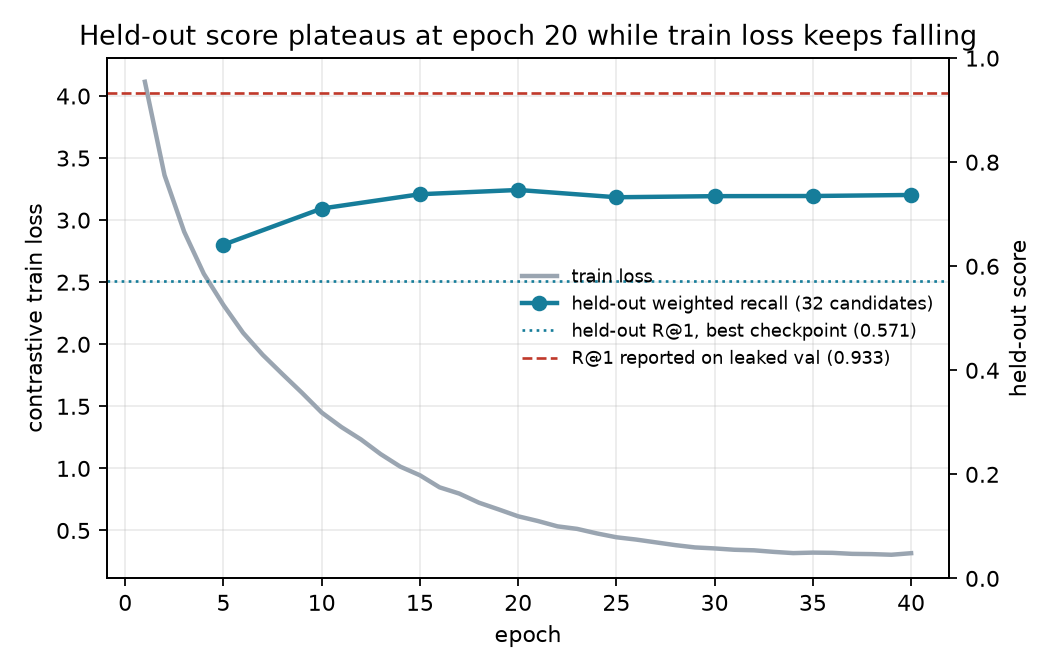
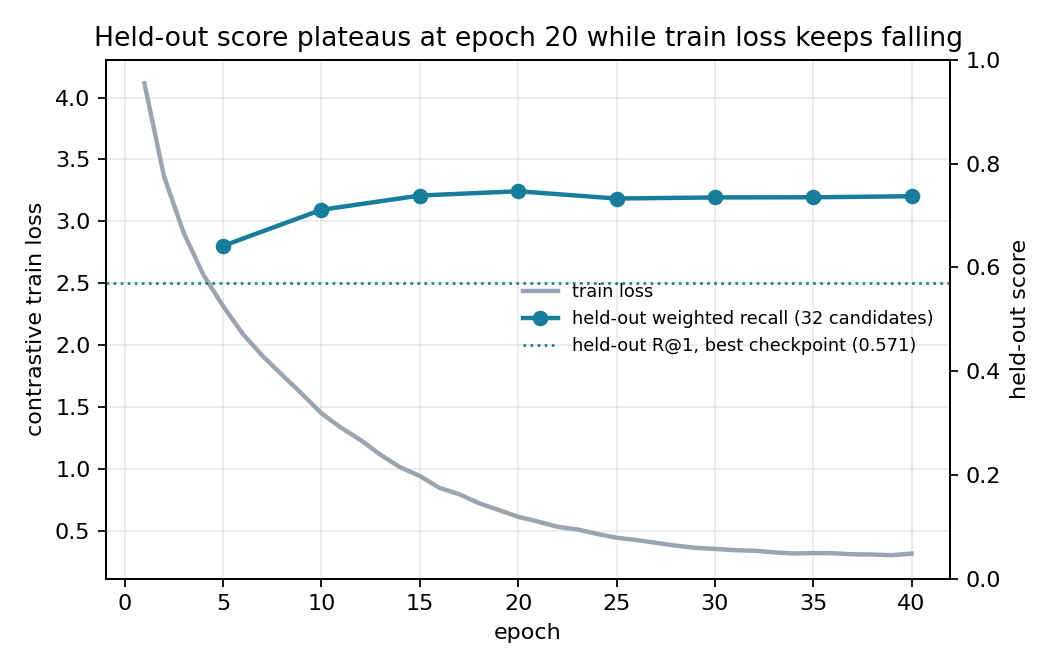
Text-to-motion: present the Kaggle win first, validation check instead of leak

diff --git a/src/content/projects.ts b/src/content/projects.ts
@@ -241,14 +241,13 @@ export const projects: Project[] = [
     featured: true,
     title: { en: 'Text-to-motion retrieval', fr: 'Text-to-motion retrieval' },
     line: {
-      en: 'Find a motion-capture sequence from a sentence. Won the Kaggle challenge, then found that the local validation score was measured on training data.',
-      fr: "Retrouver une séquence de motion capture à partir d'une phrase. Challenge Kaggle gagné, puis découverte que le score de validation local était mesuré sur des données d'entraînement.",
+      en: 'Find a motion-capture sequence from a sentence. 1st place in the Kaggle challenge, then a rebuilt pipeline evaluated on motions never seen in training and served behind an API.',
+      fr: "Retrouver une séquence de motion capture à partir d'une phrase. Première place au challenge Kaggle, puis un pipeline reconstruit, évalué sur des mouvements jamais vus à l'entraînement et servi par une API.",
     },
     headline: { value: 0.898, digits: 3, label: { en: 'leaderboard score, 1st of 13 teams (team of 3)', fr: 'score au classement, 1^{re} équipe sur 13 (équipe de 3)' } },
     headlineNote: { en: 'R@1 0.571 on unseen motions', fr: 'R@1 de 0,571 sur des mouvements inédits' },
     metrics: [
       { value: 0.898, digits: 3, label: { en: 'Kaggle score (2nd team: 0.867)', fr: 'score Kaggle (2^{e} équipe : 0,867)' } },
-      { value: 0.933, digits: 3, label: { en: 'original local R@1, leaked', fr: "R@1 local d'origine, avec fuite" } },
       { value: 0.571, digits: 3, label: { en: 'R@1 among 32, unseen motions', fr: 'R@1 parmi 32, mouvements inédits' } },
       { value: 20, digits: 0, suffix: ' ms', label: { en: 'query latency on CPU', fr: 'latence par requête sur CPU' } },
     ],
@@ -291,14 +290,14 @@ export const projects: Project[] = [
         kind: 'results',
         body: {
           en: [
-            "**The finding.** The notebook reported Recall@1 = 0.933 on the challenge's validation folders. Hashing every candidate motion showed that **640 of 640** sampled validation candidates were also training motions: the model was recognising sequences it had memorised. The leak concerns only the local score; the leaderboard scores hidden data.",
+            "**Validation check.** Before rebuilding the pipeline, I checked whether the challenge's validation folders contained motions unseen in training: they shared their motions with the training set, so they measured recognition rather than generalisation. I therefore held out whole motions to measure it. The Kaggle leaderboard itself scores hidden test data.",
             'The rebuilt pipeline holds out 10 % of motion ids (601 motions, 1,803 descriptions) **before** training. On these unseen motions: R@1 **0.571** with the target among 32 candidates (random: 0.031), and 0.119 against the full gallery of 601 (median rank 10).',
-            'The held-out score plateaus around epoch 20 while the training loss keeps falling. Under the leaky protocol that plateau was invisible, because memorisation raised the reported score.',
+            'The held-out score plateaus around epoch 20 while the training loss keeps falling: only motions truly held out reveal that plateau, which sets where to stop training.',
           ],
           fr: [
-            "**La découverte.** Le notebook annonçait un Recall@1 de 0,933 sur les dossiers de validation du challenge. En hachant chaque mouvement candidat, j'ai constaté que **640 sur 640** candidats de validation échantillonnés étaient aussi des mouvements d'entraînement : le modèle reconnaissait des séquences qu'il avait mémorisées. La fuite ne concerne que le score local ; le classement note des données cachées.",
+            "**Contrôle de la validation.** Avant de reconstruire le pipeline, j'ai vérifié que les dossiers de validation du challenge contenaient des mouvements inédits : ils partageaient leurs mouvements avec l'entraînement, et mesuraient donc la reconnaissance plutôt que la généralisation. J'ai donc mis de côté des mouvements entiers pour la mesurer. Le classement Kaggle, lui, note des données de test cachées.",
             "Le pipeline reconstruit met de côté 10 % des identifiants de mouvements (601 mouvements, 1 803 descriptions) **avant** l'entraînement. Sur ces mouvements inédits : R@1 de **0,571** avec la cible parmi 32 candidats (hasard : 0,031), et de 0,119 face à toute la galerie de 601 (rang médian 10).",
-            "Le score sur les données mises de côté plafonne vers l'epoch 20 pendant que la loss d'entraînement continue de baisser. Avec le protocole fuité, ce plateau était invisible, car la mémorisation faisait monter le score affiché.",
+            "Le score sur les données mises de côté plafonne vers l'epoch 20 pendant que la loss d'entraînement continue de baisser : seuls des mouvements réellement mis de côté révèlent ce plateau, qui indique où arrêter l'entraînement.",
           ],
         },
       },

diff --git a/src/content/fr.ts b/src/content/fr.ts
@@ -65,7 +65,7 @@ export const fr: Dictionary = {
     title: 'À propos',
     paragraphs: [
       "J'ai suivi deux ans de classes préparatoires en Côte d'Ivoire, puis l'École Centrale Casablanca et l'École Centrale de Lille, où je me suis spécialisé en IA. En chemin, j'ai construit un assistant RAG pour une équipe finance, un système de détection de fraude pour une institution de microfinance, et un nouveau mécanisme d'attention pour les réseaux de neurones à impulsions, aujourd'hui en relecture à CVPR.",
-      "Le fil conducteur est simple : un modèle n'est pas terminé quand il tourne dans un notebook. Il l'est quand il est évalué sur des données qu'il n'a jamais vues, déployé derrière une API et surveillé une fois en service. C'est pour cela que mes pages projets montrent leurs protocoles, leurs limites, et la fuite de validation que j'ai trouvée dans mon propre modèle gagnant sur Kaggle.",
+      "Le fil conducteur est simple : un modèle n'est pas terminé quand il tourne dans un notebook. Il l'est quand il est évalué sur des données qu'il n'a jamais vues, déployé derrière une API et surveillé une fois en service. C'est pour cela que mes pages projets montrent leurs protocoles, leurs limites et ce que les mesures ont changé dans mes choix.",
     ],
   },
   contact: {

diff --git a/src/content/en.ts b/src/content/en.ts
@@ -64,7 +64,7 @@ export const en: Dictionary = {
     title: 'About',
     paragraphs: [
       "I trained as an engineer through two years of preparatory classes in Côte d'Ivoire, then at École Centrale Casablanca and École Centrale de Lille, where I specialised in AI. Along the way I have built a RAG assistant for a finance team, a fraud-detection system for a microfinance institution, and a new attention mechanism for spiking neural networks, now under review at CVPR.",
-      'The thread through that work is simple: a model is not done when it runs in a notebook. It is done when it is evaluated on data it has never seen, deployed behind an API, and watched once it runs. That is why my project pages show their protocols, their limitations, and the validation leak I found in my own winning Kaggle model.',
+      'The thread through that work is simple: a model is not done when it runs in a notebook. It is done when it is evaluated on data it has never seen, deployed behind an API, and watched once it runs. That is why my project pages show their protocols, their limitations, and what the measurements changed in my choices.',
     ],
   },
   contact: {
